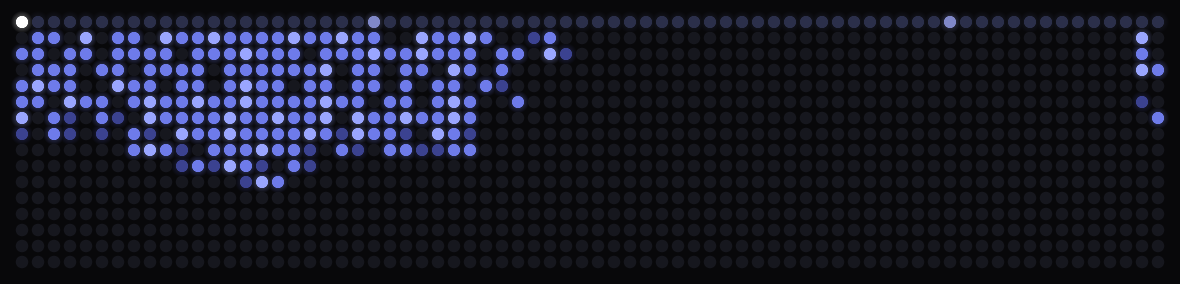
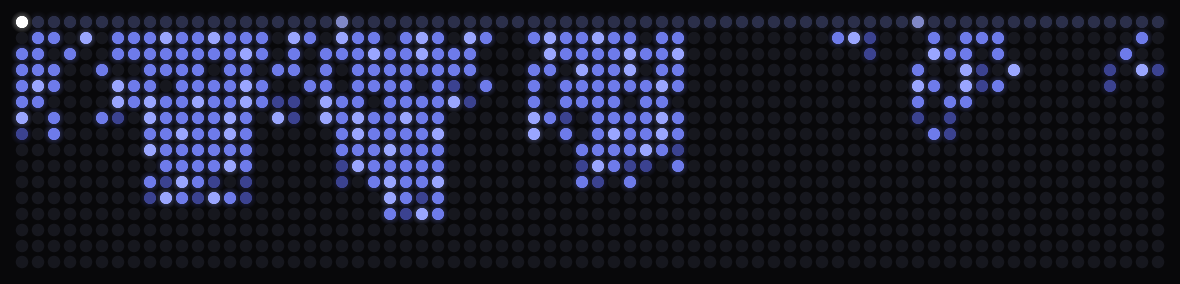
docs: record the screenshots and the wheel's recording with live rain

diff --git a/README.md b/README.md
@@ -16,7 +16,7 @@ The back display:
 
 ![The headline as a sentence, the place, the 48 hours as a strip, and the sources](docs/screenshots/back-3-large.png)
 
-The pictures are BUSY Bar Emulator's screenshots, taken with live rain for Utrecht. The front display's are drawn here as the LEDs they are on the bar; `screenshots/` has them as they were taken, at the displays' size, 72x16 and 160x80.
+The pictures are BUSY Bar Emulator's screenshots, taken with live rain over Nijmegen on 18 November 2026. The front display's are drawn here as the LEDs they are on the bar; `screenshots/` has them as they were taken, at the displays' size, 72x16 and 160x80.
 
 ## Using it
 
